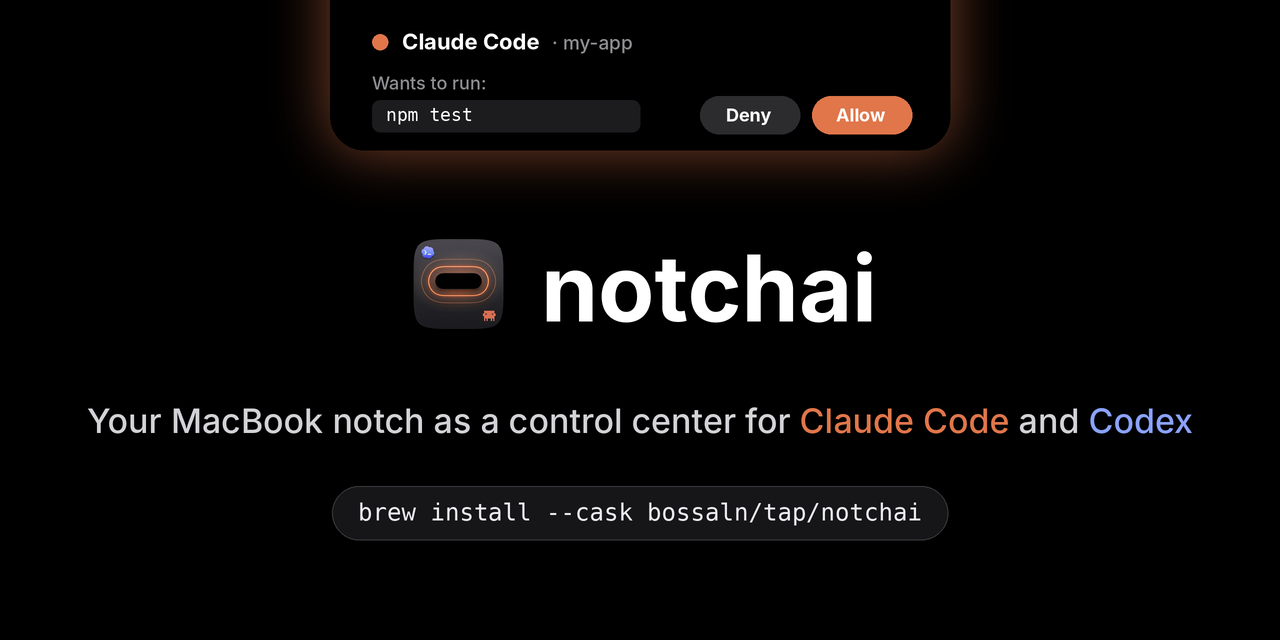
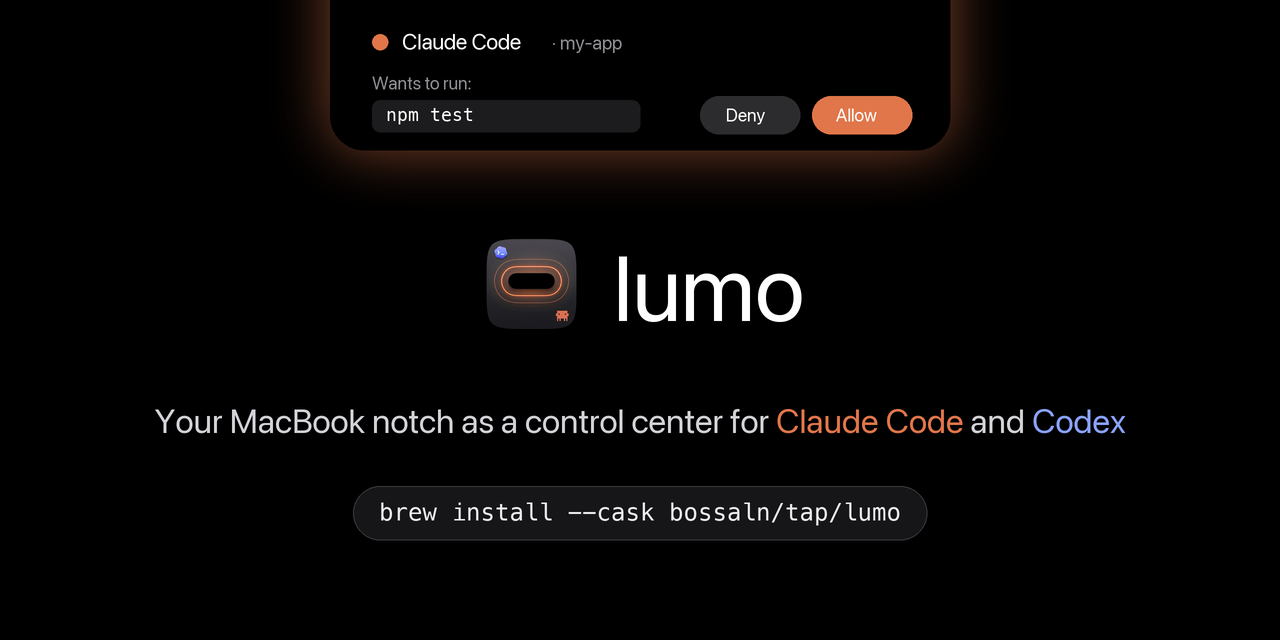
README-Bilder mit dem neuen Namen neu gezeichnet

diff --git a/scripts/install-gif.py b/scripts/install-gif.py
@@ -83,7 +83,7 @@ prompt = "~ % "
 command = "brew install --cask bossaln/tap/lumo"
 brew_lines = [
     [("==> ", BLUE), ("Tapping bossaln/tap", TEXT)],
-    [("==> ", BLUE), ("Downloading lumo-0.3.0.zip", TEXT)],
+    [("==> ", BLUE), ("Downloading lumo-0.8.0.zip", TEXT)],
     [("######################################################### 100.0%", DIM)],
     [("==> ", BLUE), ("Installing Cask ", TEXT), ("lumo", GREEN)],
     [("==> ", BLUE), ("Moving App 'lumo.app' to '/Applications/lumo.app'", TEXT)],
